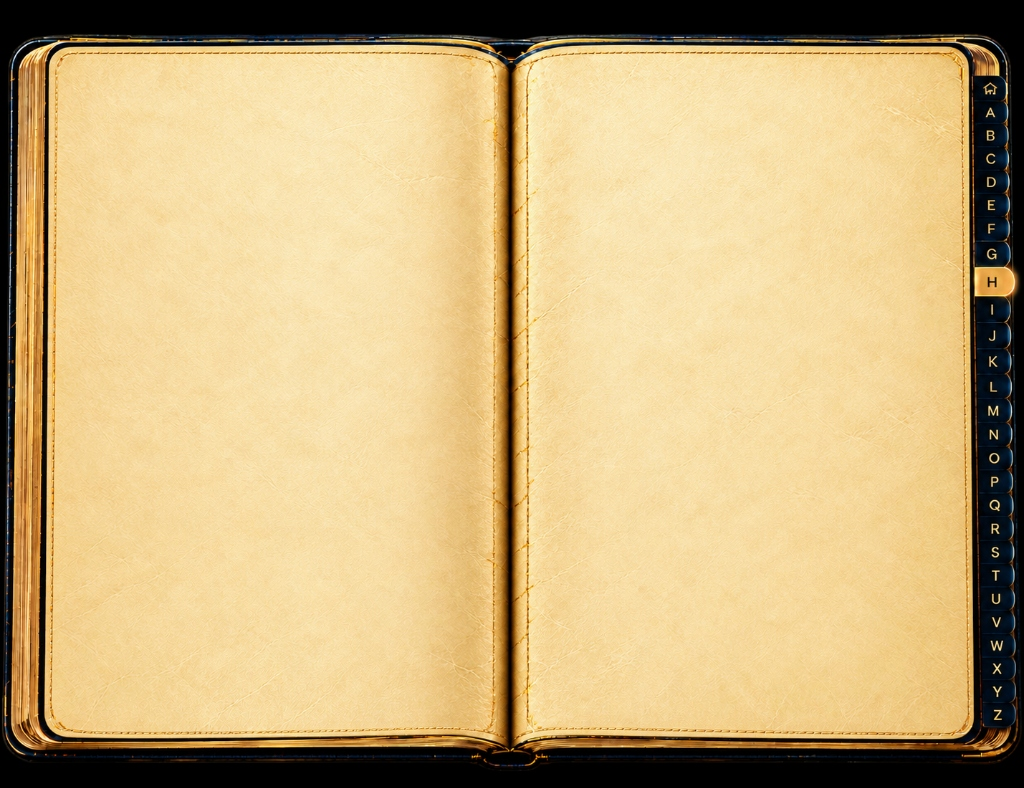
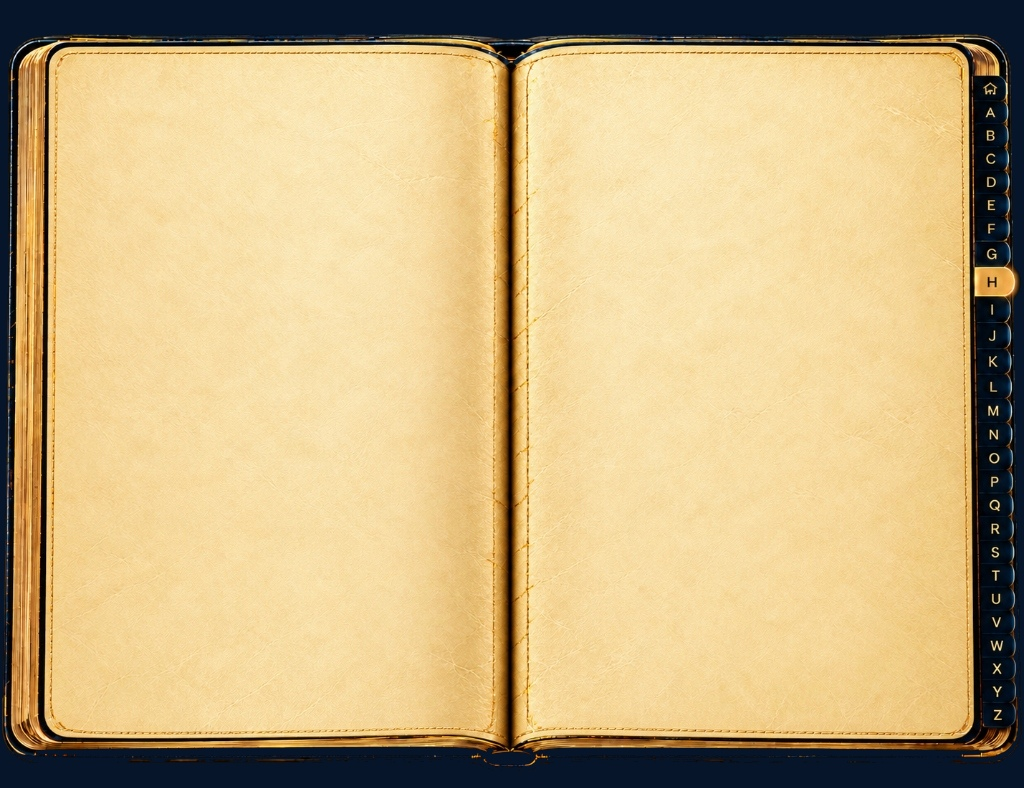
feat(contacts): make color behind ledger background deep blue (#07152B) instead of black

Changed region(s): [[0.0, 0.0, 1.0, 1.0]]

diff --git a/client/src/pages/Contacts.tsx b/client/src/pages/Contacts.tsx
@@ -153,10 +153,10 @@ export default function Contacts() {
 
   return (
     <ScopedErrorBoundary moduleName="Contacts">
-      <div className="min-h-full bg-[#020712] text-[#F0DFC5] flex flex-col">
+      <div className="min-h-full bg-[#07152B] text-[#F0DFC5] flex flex-col">
         {/* ─── Top Full-Bleed Photographic Header Banner ─── */}
         {/* Desktop & Tablet View (Exact 1024:139 photographic header from mockup) */}
-        <div className="hidden md:block w-full border-b border-[#18283F] shadow-[0_12px_36px_rgba(0,0,0,0.95)] overflow-hidden bg-[#020B18]">
+        <div className="hidden md:block w-full border-b border-[#18283F] shadow-[0_12px_36px_rgba(0,0,0,0.95)] overflow-hidden bg-[#07152B]">
           <div
             className="w-full relative aspect-[1024/139] bg-no-repeat bg-[length:100%_100%] select-none"
             style={{ backgroundImage: "url('/decor/contacts-header-bg.png')" }}
@@ -212,7 +212,7 @@ export default function Contacts() {
 
         {/* Mobile View (< md) */}
         <div
-          className="md:hidden w-full relative border-b border-[#18283F] shadow-[0_8px_24px_rgba(0,0,0,0.9)] overflow-hidden bg-[#020B18] bg-no-repeat bg-cover bg-right px-4 py-5"
+          className="md:hidden w-full relative border-b border-[#18283F] shadow-[0_8px_24px_rgba(0,0,0,0.9)] overflow-hidden bg-[#07152B] bg-no-repeat bg-cover bg-right px-4 py-5"
           style={{ backgroundImage: "url('/decor/contacts-header-bg.png')" }}
         >
           <div className="relative z-10 flex flex-col gap-3">

diff --git a/client/src/components/DashboardLayout.tsx b/client/src/components/DashboardLayout.tsx
@@ -1483,7 +1483,11 @@ function DashboardLayoutContent({ children, setSidebarWidth }: DashboardLayoutCo
             </div>
           </div>
         )}
-        <main className={cn("flex-1 p-4 relative", (location.startsWith("/meeting-workspace") || location === "/students" || location === "/projects" || location === "/contacts") && "p-0 bg-[#020712]")}>
+        <main className={cn(
+          "flex-1 p-4 relative",
+          (location.startsWith("/meeting-workspace") || location === "/students" || location === "/projects") && "p-0 bg-[#020712]",
+          location === "/contacts" && "p-0 bg-[#07152B]"
+        )}>
           {currentForbiddenModule ? (
             <div className="flex flex-col items-center justify-center min-h-[60vh] max-w-lg mx-auto text-center px-4 py-12">
               <div className="w-16 h-16 rounded-2xl bg-rose-500/10 border border-rose-500/30 flex items-center justify-center text-rose-400 mb-5 shadow-lg shadow-rose-950/40">

diff --git a/client/src/components/contact/ledger/ContactsLedgerView.tsx b/client/src/components/contact/ledger/ContactsLedgerView.tsx
@@ -284,6 +284,7 @@ export default function ContactsLedgerView({
             ? "/decor/contacts-ledger-light.jpg"
             : "/decor/contacts-ledger-dark.jpg"
         })`,
+        backgroundColor: "#07152B",
         backgroundSize: "100% 100%",
         backgroundRepeat: "no-repeat",
         backgroundPosition: "center top",
